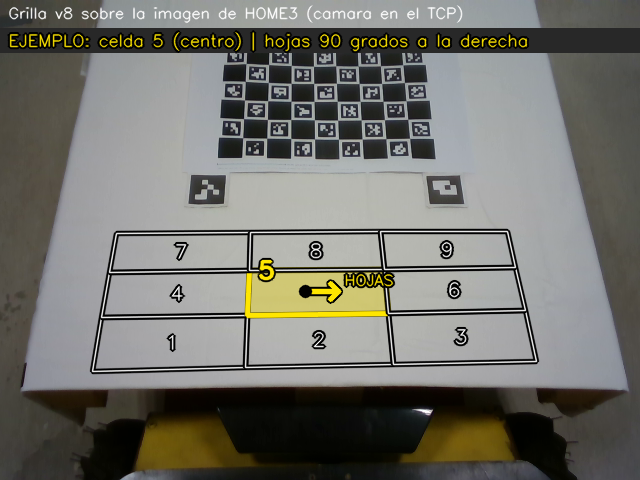
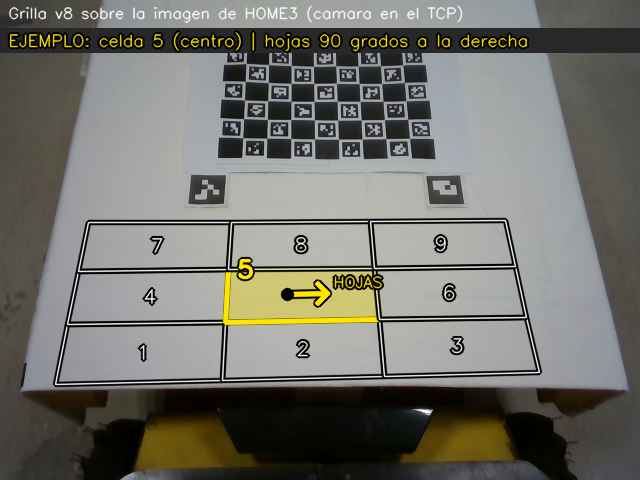
feat(v8): taller and wider table grid (x 0.405-0.633, y -0.27..+0.31 m)
Requested by the user after the ±0.27 m version, without changing the
bridge safety box.

- Taller (x): from the table edge near the base (x = 0.39-0.40 m, about
  1 cm margin) to 3 cm before the ArUco (x = 0.6635 m).
- Wider (y), asymmetric because the camera sits ~1.6 cm to one side of
  the TCP:
  - left: the robot reaches +0.33 m; +0.31 m keeps ~3 cm to the cloth
    edge at +0.34 m;
  - right: -0.27 m (at -0.275 m the TCP is clamped 6 mm, at -0.28 m
    1 cm).
  - Going further right needs a wider box, and even with |y| <= 0.36 m
    cell 9 fails on the 0.65 m radius.
- All 9 cells reachable with at most 1 mm clamp (camera in the HOME3
  orientation). Homography cross-check: 10 px.

Guide and schedule tests pass.

Changed region(s): [[0.0625, 0.4375, 0.8438, 0.8125]]

diff --git a/context.md b/context.md
@@ -698,7 +698,10 @@ Durante las primeras evaluaciones en inferencia con un modelo entrenado con ~60 
 50. **Listo para recolectar v8 a mano (2026-11-25):**
     - *Celdas en metros:* el programa usaba tercios de la imagen de HOME3, pero el tercio superior queda en x > 0,7 m,
       fuera de la caja del puente (radio <= 0,65 m), y esas demos se habrían descartado al convertir. Ahora la grilla
-      3x3 está en link_base (`v8_cells.yaml`): x de 0,42 a 0,615 m e |y| <= 0,21 m, por debajo de los ArUco.
+      3x3 está en link_base (`v8_cells.yaml`): primero x de 0,42 a 0,615 m e |y| <= 0,21 m, por debajo de los ArUco;
+      el 2026-11-25, a pedido del usuario, se agrandó a x de 0,405 a 0,633 m e y de -0,27 a +0,31 m. El mantel va de
+      y = -0,36 a +0,34 m; el ancho es asimétrico porque la cámara va ~1,6 cm a un lado del TCP y la caja del puente
+      (|y| <= 0,30 para el TCP) corta antes por la derecha. Ir más allá exige ampliar la caja.
       - `make_v8_cells.py` comprueba que el robot llega a la vista final (25–30 cm, cámara hacia abajo, 4
         orientaciones): las celdas 1–6 y 8 al 100 %; la 7 y la 9 fallan solo en una esquina (herramienta hacia el
         centro).
